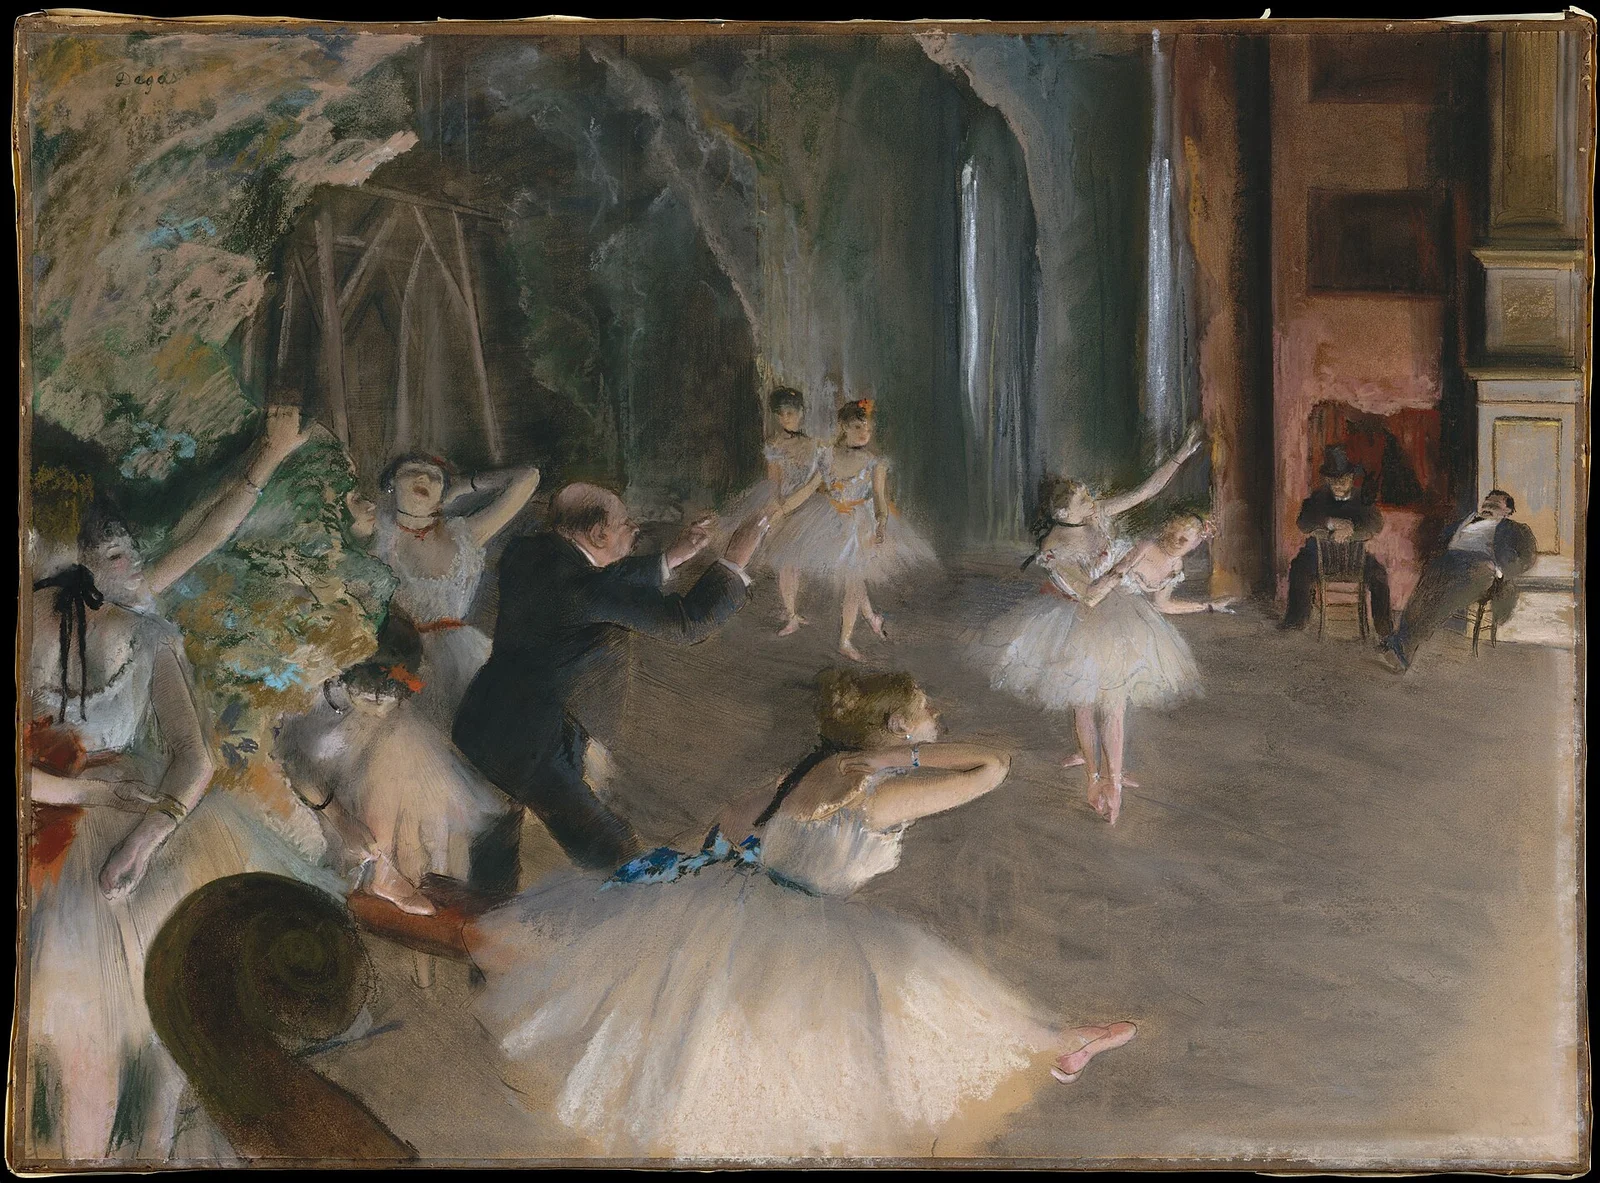
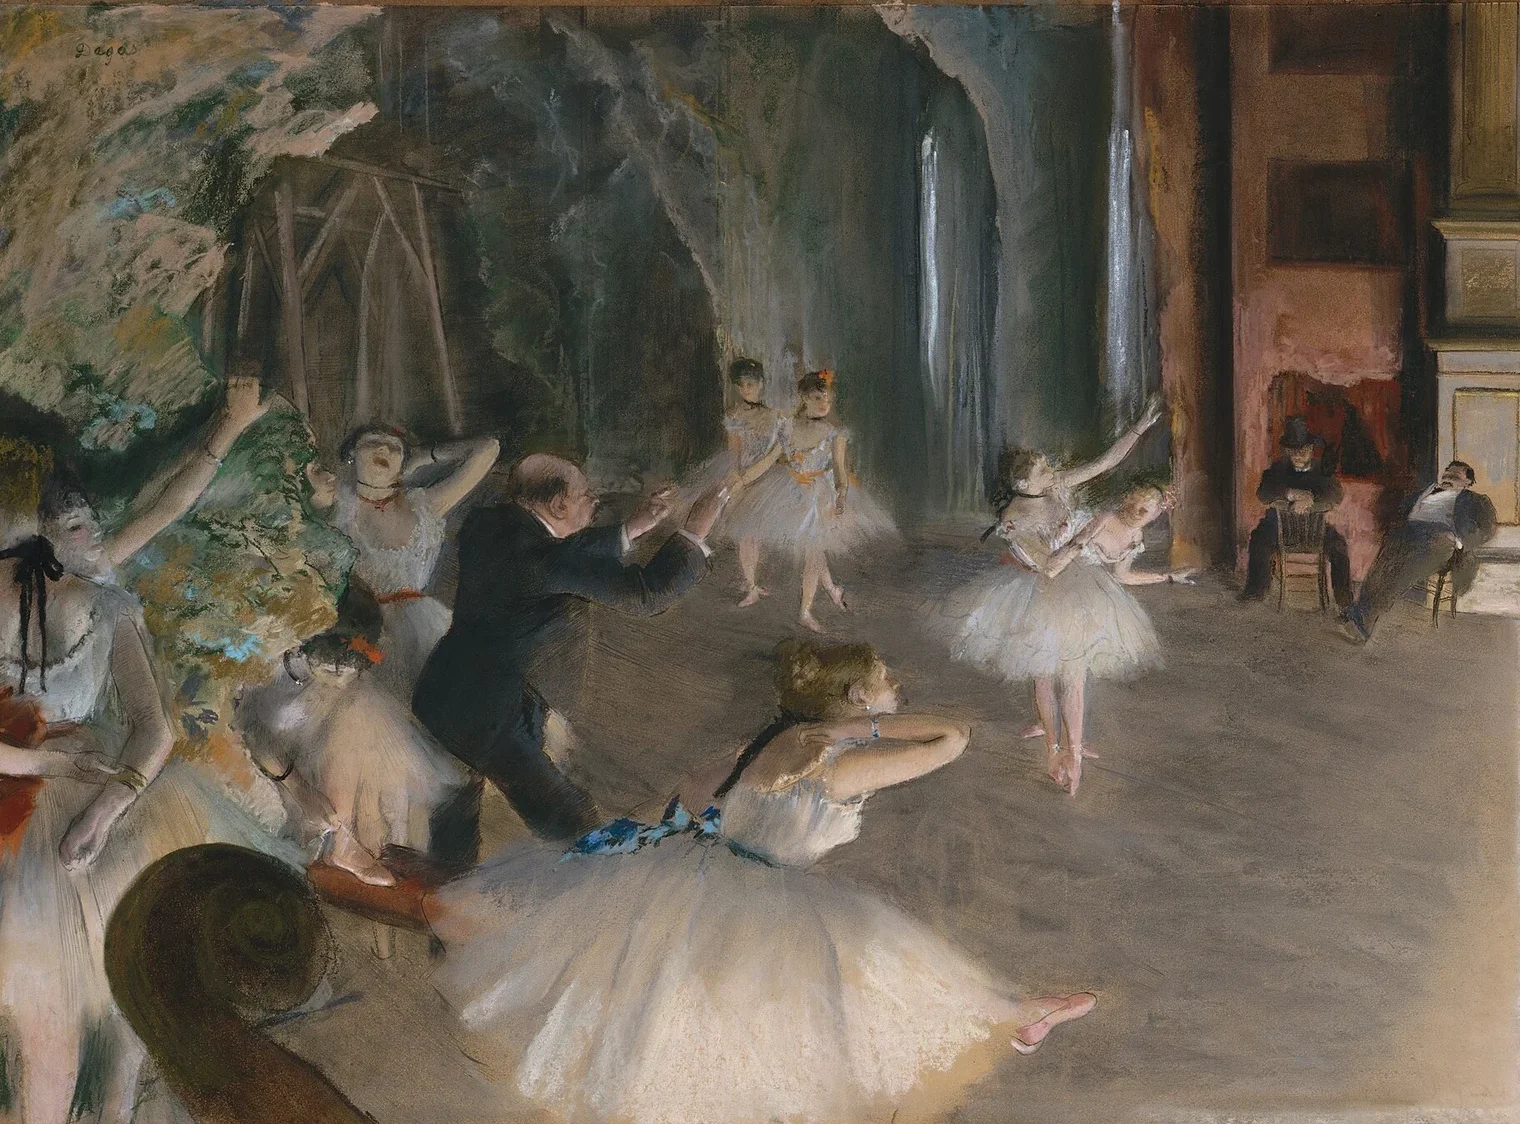
Earthrise as a landscape detail, trim the Morris margin and the Degas edges

diff --git a/_posts/2026-07-12-missing-the-singularity.md b/_posts/2026-07-12-missing-the-singularity.md
@@ -5,8 +5,8 @@ date: 2026-07-12 07:00:00 +0000
 excerpt: "The singularity may arrive as a succession of useful suggestions."
 ---
 
-![The Earth rises half lit above the grey horizon of the Moon](/assets/images/2026-07-12-missing-the-singularity-painting.webp){: width="1600" height="1600"}
-*William Anders, NASA, Earthrise (1968). [Wikimedia Commons](https://commons.wikimedia.org/wiki/File:NASA-Apollo8-Dec24-Earthrise.jpg)*
+![The Earth rises half lit above the grey horizon of the Moon](/assets/images/2026-07-12-missing-the-singularity-painting.webp){: width="1600" height="1067"}
+*William Anders, NASA, Earthrise (1968), detail. [Wikimedia Commons](https://commons.wikimedia.org/wiki/File:NASA-Apollo8-Dec24-Earthrise.jpg)*
 
 On Friday I had to nip into town and do a run of mildly annoying admin. I gave GPT-5.6 a three-minute voice prompt as I walked, explaining the whys and wherefores. It saved me about forty-five minutes. A procedure at the bank had changed, which I would otherwise have discovered by joining the wrong queue and failing.
 

diff --git a/_posts/2026-01-06-vibe-orchestration.md b/_posts/2026-01-06-vibe-orchestration.md
@@ -5,7 +5,7 @@ date: 2026-01-06 14:00:00 +0000
 excerpt: "Justin Bieber conducting an orchestra by humming. That might be closer to where we're heading."
 ---
 
-![Ballet dancers in pale tutus rehearse on a dim stage while a man in black directs and others watch from the wings](/assets/images/2026-01-06-vibe-orchestration-painting.webp){: width="1600" height="1183"}
+![Ballet dancers in pale tutus rehearse on a dim stage while a man in black directs and others watch from the wings](/assets/images/2026-01-06-vibe-orchestration-painting.webp){: width="1520" height="1124"}
 *Edgar Degas, The Rehearsal Onstage (c. 1874). [Wikimedia Commons](https://commons.wikimedia.org/wiki/File:The_Rehearsal_Onstage_MET_DT1006.jpg)*
 
 There's a [video of Justin Bieber](https://x.com/reidhoffman/status/1873756306013901051) conducting an orchestra by humming fragments of tunes and explaining how he wants them combined. No sheet music. No formal notation. Just vibes, translated into something precise by people who know how.

diff --git a/_posts/2026-01-04-fresh-and-stale.md b/_posts/2026-01-04-fresh-and-stale.md
@@ -5,7 +5,7 @@ date: 2026-01-04 20:30:00 +0000
 excerpt: "Ideas captured immediately feel effortless. Ideas saved for later feel like work. The difference is infrastructure."
 ---
 
-![Thrushes among strawberries, tulips and leaves in a dense indigo pattern](/assets/images/2026-01-04-fresh-and-stale-painting.webp){: width="1600" height="1082"}
+![Thrushes among strawberries, tulips and leaves in a dense indigo pattern](/assets/images/2026-01-04-fresh-and-stale-painting.webp){: width="1425" height="1002"}
 *William Morris, Strawberry Thief, printed textile (designed 1883). [Wikimedia Commons](https://commons.wikimedia.org/wiki/File:Textile,_Strawberry_Thief,_designed_1883,_printed_ca._1934_%28CH_18340065%29.jpg)*
 
 A friend, [James Welland](https://jameswelland.co.uk/), asked where he'd find time to do what I'm doing with this blog. His idea: describe your daily routine to an LLM and ask it to find cracks.
